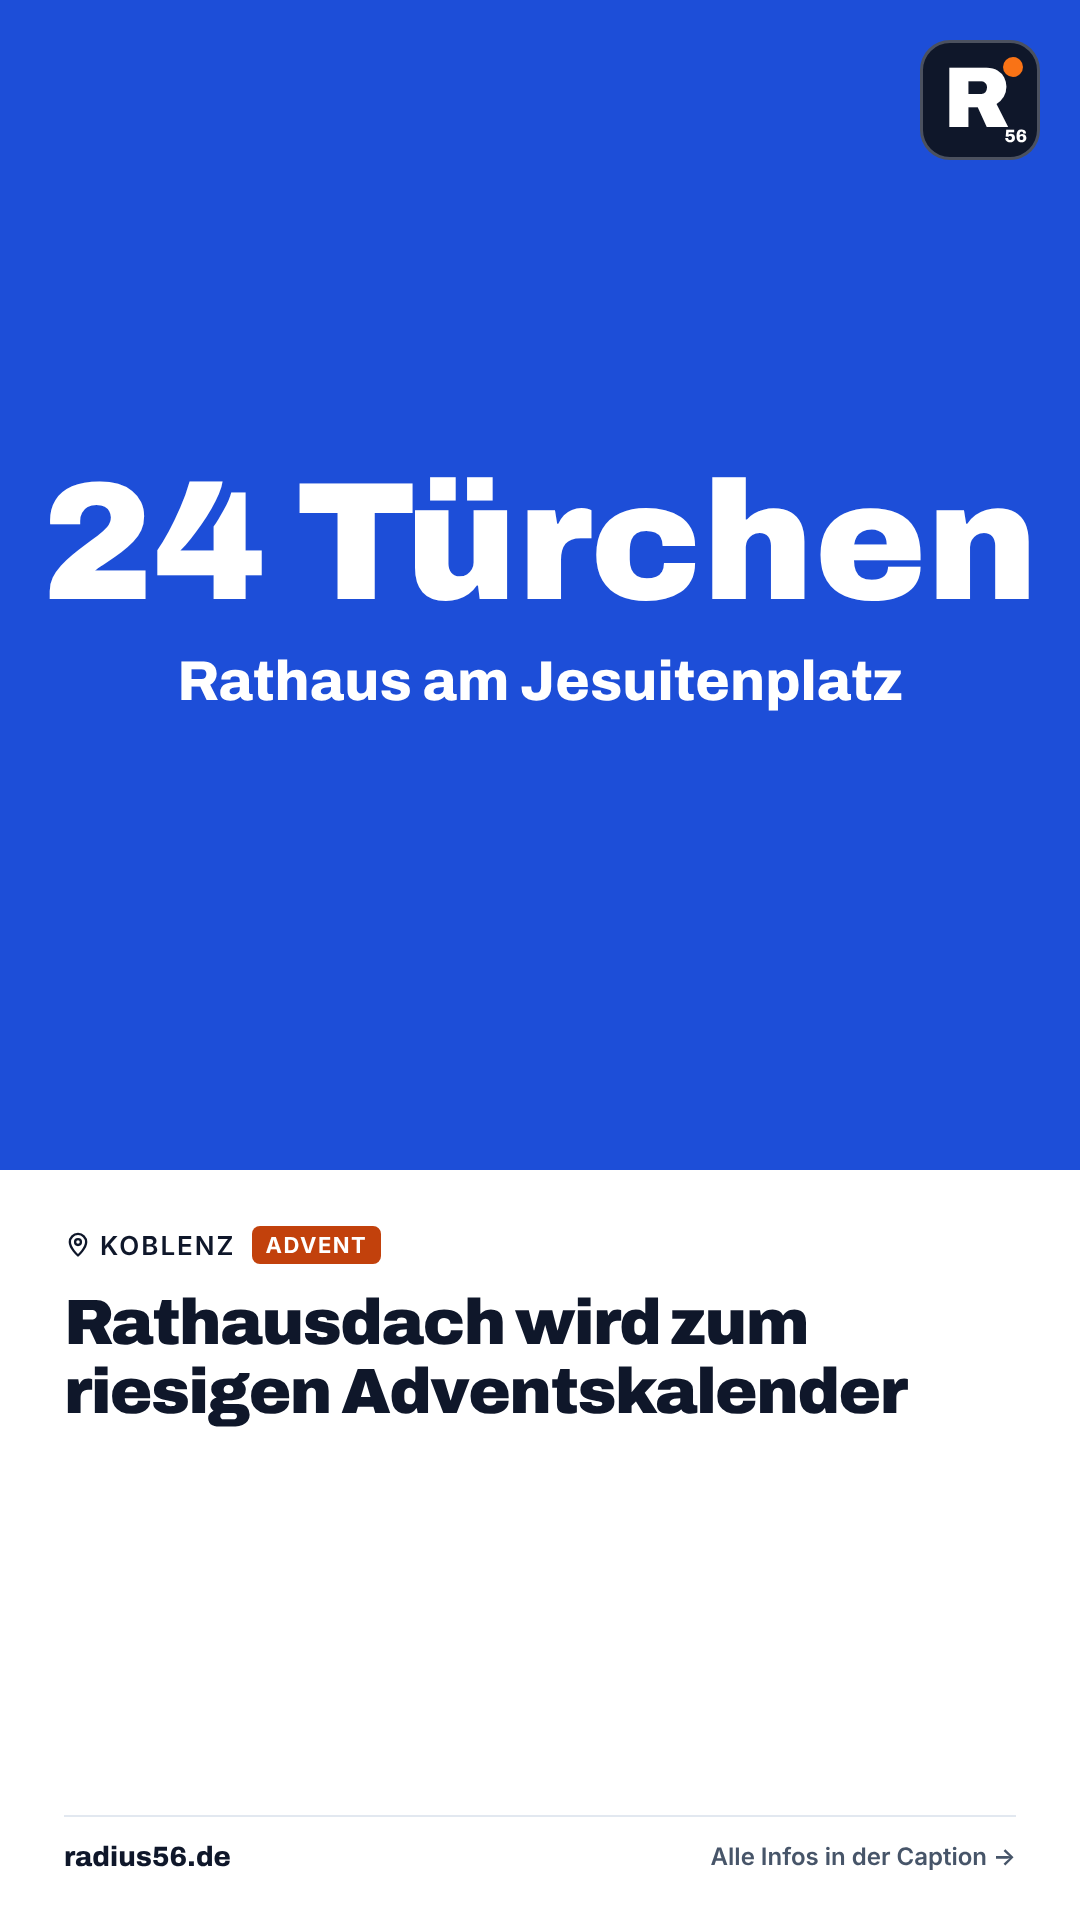
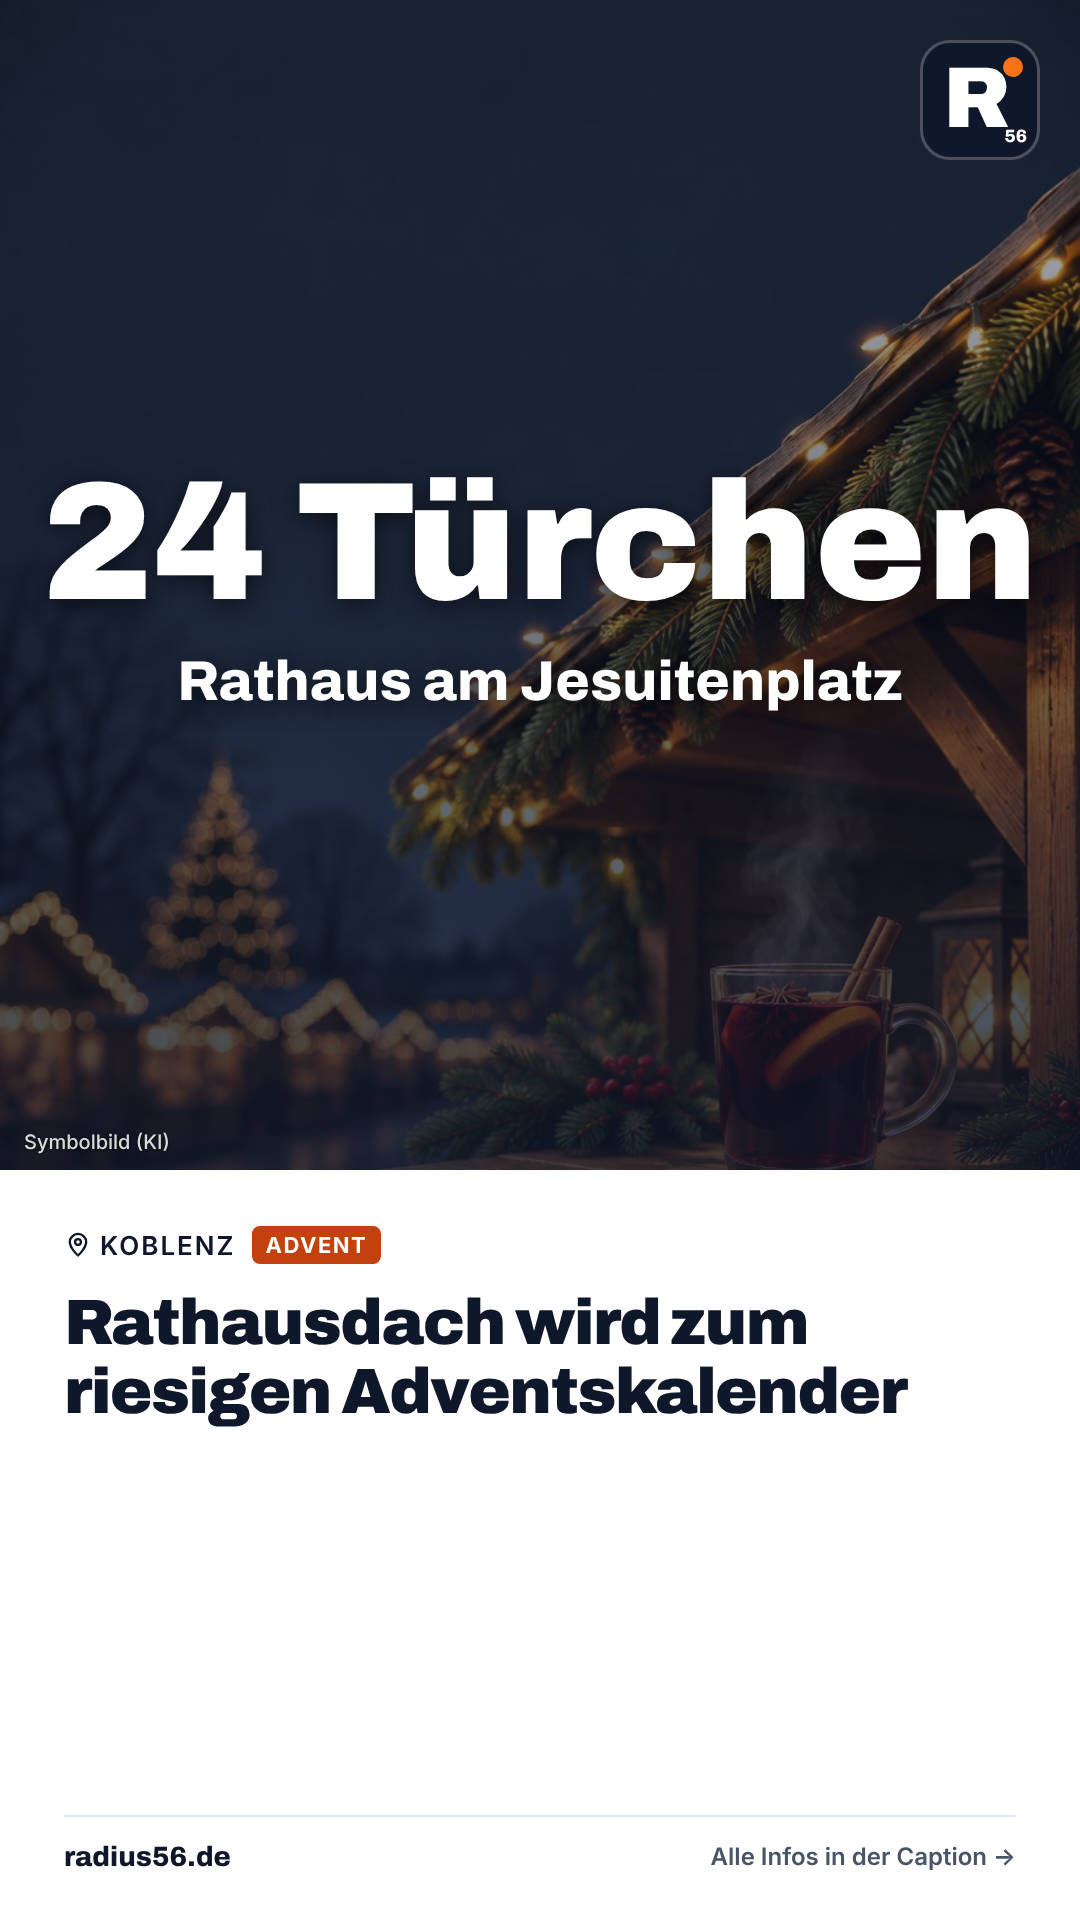
Adventskalender-Post mit Symbolbild; Regel: immer mit Foto
Claude-Session: https://claude.ai/code/session_01ExWYevarDNoEnrHx8j53uD

diff --git a/docs/AUTOMATION.md b/docs/AUTOMATION.md
@@ -57,8 +57,9 @@ Linz, Bad Hönningen, Dierdorf, Montabaur, Mayen-Koblenz). Instagram: @radius56.
 
 ## Lizenzfreie Fotos (Entscheidung Wladi, 24.11.2026)
 
-Bei jedem Post kurz recherchieren, ob es ein passendes, sauber lizenziertes Foto gibt. Wenn ja,
-als Hintergrund der Kachel nutzen; wenn nein, normale Kachel ohne Foto (kein Zwang).
+**Immer mit Foto (Entscheidung Wladi, 25.11.2026):** Kein Beitrag ohne Hintergrundbild. Reihenfolge:
+vorhandenes Foto aus `public/social/fotos/` → lizenzfreies Foto → Higgsfield-Symbolbild (siehe unten).
+Kachel ohne Bild nur, wenn auch Higgsfield nicht geht – dann lieber nicht posten und melden.
 
 - **Quellen:** zuerst Wikimedia Commons (commons.wikimedia.org), dann Unsplash oder Pexels.
 - **Erlaubte Lizenzen:** CC0 / Public Domain, CC BY, CC BY-SA (Commons), Unsplash-/Pexels-Lizenz.
